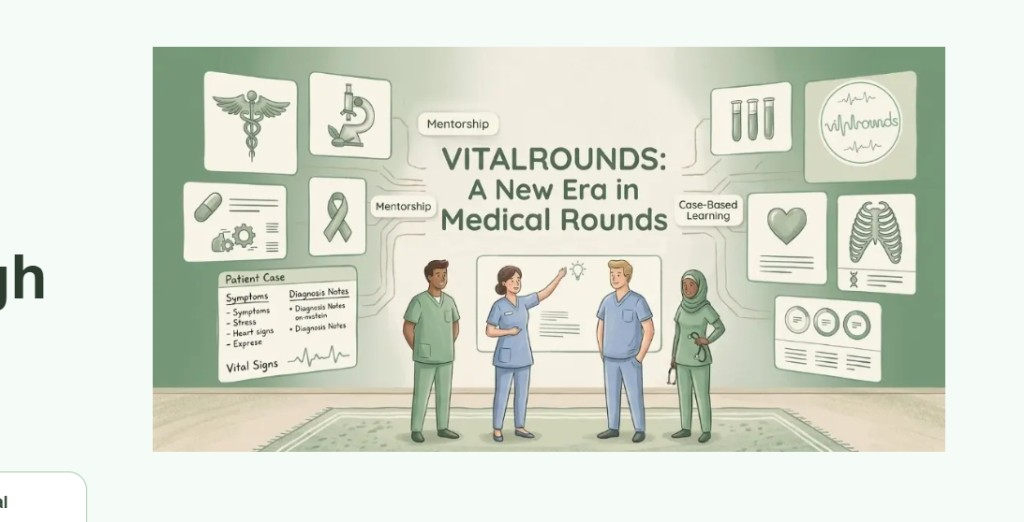
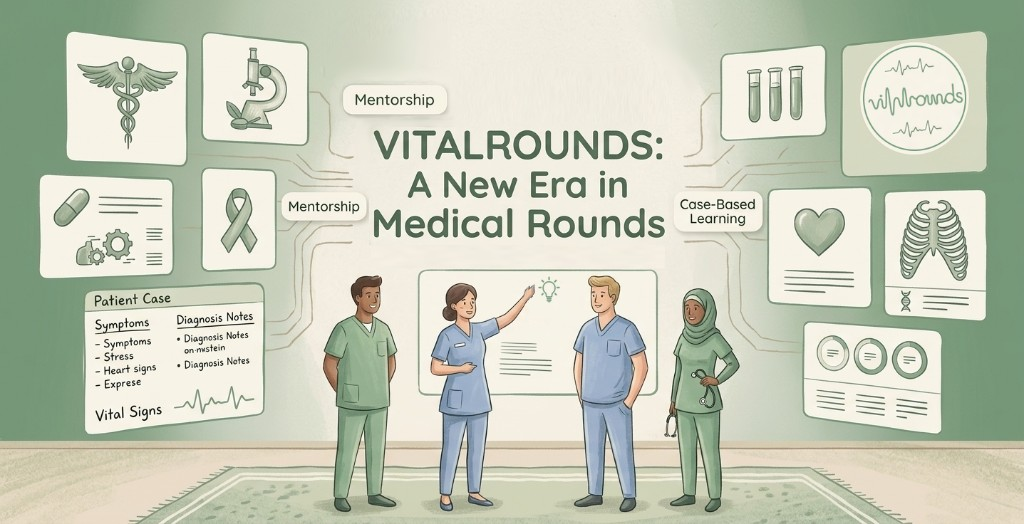
fix(hero): replace poster asset, sage-only frame (no white mat)
Made-with: Cursor

diff --git a/src/app/page.tsx b/src/app/page.tsx
@@ -112,7 +112,7 @@ export default function Home() {
         }}
       >
         <div className="relative grid items-start gap-10 lg:grid-cols-12 lg:gap-12 xl:gap-14">
-          <RevealOnScroll className="min-w-0 space-y-5 lg:col-span-5">
+          <RevealOnScroll className="min-w-0 space-y-5 overflow-x-clip lg:col-span-5">
             <p className="inline-flex rounded-full bg-[#cbecd0] px-4 py-2 text-xs font-semibold uppercase tracking-[0.16em] text-[#354a38]">
               Purpose-built for IMG clinical exposure
             </p>
@@ -147,21 +147,21 @@ export default function Home() {
             delayMs={150}
             className="relative z-10 min-w-0 lg:col-span-7"
           >
+            {/* Sage wash only — no white mat, no inset highlights, image flush to inner crop */}
             <div
-              className="rounded-2xl bg-gradient-to-br from-[#b8cfba] via-[#d0dfd2] to-[#e4eee6] p-2 sm:rounded-[1.75rem] sm:p-2.5 md:p-3"
+              className="rounded-2xl bg-gradient-to-br from-[#8aab8f] via-[#759d7b] to-[#628568] p-3 sm:rounded-3xl sm:p-4 md:p-5"
               style={{
                 boxShadow:
-                  "0 0 0 1px rgba(117, 157, 123, 0.2), inset 0 1px 0 rgba(255, 255, 255, 0.35), 0 20px 48px -16px rgba(53, 74, 56, 0.22), 0 0 72px 20px rgba(117, 157, 123, 0.22)",
+                  "0 24px 56px -20px rgba(44, 61, 47, 0.35), 0 0 0 1px rgba(53, 74, 56, 0.12)",
               }}
             >
-              {/* Match poster edge (#759d7b) so file white margins read as sage, not white */}
-              <div className="overflow-hidden rounded-[1.25rem] bg-[#759d7b] ring-1 ring-[#5f7362]/20 sm:rounded-[1.4rem]">
+              <div className="overflow-hidden rounded-xl bg-[#759d7b] sm:rounded-2xl">
                 <Image
                   src="/clinical-network-poster.png"
                   alt="VitalRounds: A New Era in Medical Rounds"
-                  width={1920}
-                  height={960}
-                  className="block h-auto w-full [clip-path:inset(1.25%_round_0.75rem)] sm:[clip-path:inset(1%_round_0.85rem)]"
+                  width={1024}
+                  height={524}
+                  className="block h-auto w-full align-middle"
                   sizes="(max-width: 1024px) 100vw, 58vw"
                   priority
                 />
